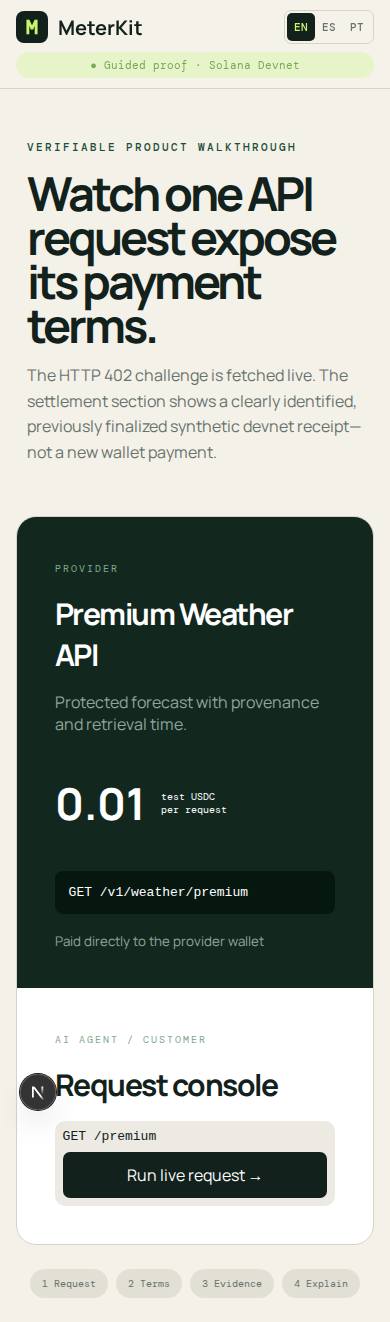
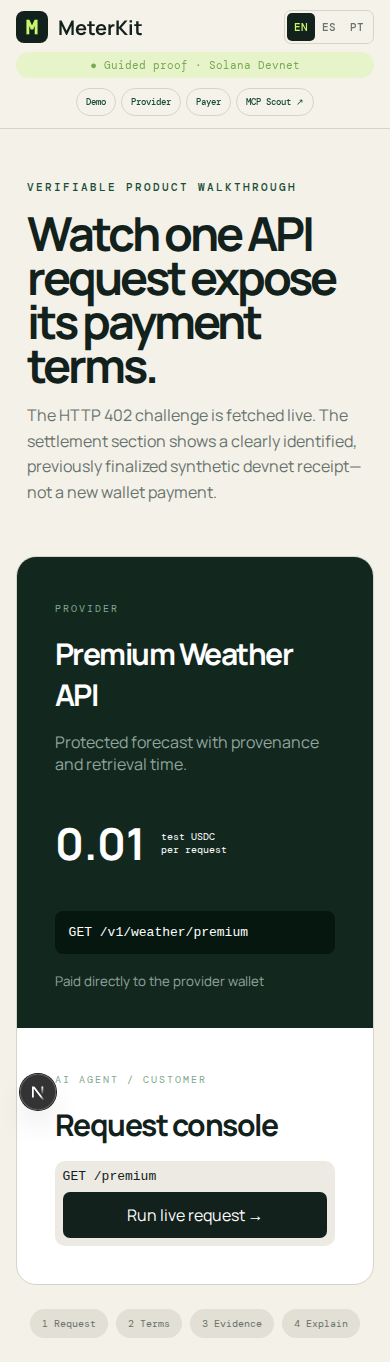
Add security headers and mobile product navigation

diff --git a/apps/web/app/styles.css b/apps/web/app/styles.css
@@ -3,6 +3,7 @@
 *{box-sizing:border-box}html{scroll-behavior:smooth}body{margin:0;background:var(--paper);color:var(--ink);font-family:Manrope,Arial,sans-serif}a{color:inherit;text-decoration:none}button{font:inherit}
 nav{height:78px;border-bottom:1px solid var(--line);display:flex;align-items:center;justify-content:space-between;padding:0 5vw;position:sticky;top:0;background:rgba(244,241,233,.94);backdrop-filter:blur(12px);z-index:5}.brand{font-weight:700;font-size:20px;display:flex;align-items:center;gap:10px}.mark{display:grid;place-items:center;width:32px;height:32px;background:var(--ink);color:var(--lime);border-radius:8px;font-family:DM Mono}.navlinks{display:flex;gap:32px;font-size:14px}.wallet,.new{border:0;background:var(--ink);color:white;border-radius:8px;padding:12px 17px}.dot{display:inline-block;width:7px;height:7px;background:var(--lime);border-radius:50%;margin-right:8px}
 .navActions{display:flex;align-items:center;gap:10px}.localeSwitch{display:flex;border:1px solid var(--line);border-radius:7px;padding:2px}.localeSwitch button{border:0;background:transparent;border-radius:5px;padding:7px;color:var(--muted);font:500 11px DM Mono}.localeSwitch button.active{background:var(--ink);color:var(--lime)}
+.mobileProductNav{display:none}
 .hero{padding:110px 7vw 100px;max-width:1150px}.eyebrow,.kicker{font:500 11px DM Mono;letter-spacing:2px;color:var(--green)}h1{font-size:clamp(54px,8vw,100px);line-height:.94;letter-spacing:-6px;margin:24px 0 30px;max-width:1000px}h1 em{font-style:normal;color:var(--green)}.hero>p{font-size:20px;line-height:1.55;max-width:650px;color:var(--muted)}.actions{display:flex;gap:12px;margin:35px 0}.primary,.secondary{padding:15px 20px;border-radius:8px;font-weight:600}.primary{background:var(--lime)}.secondary{border:1px solid var(--line)}.proof{display:flex;gap:28px;font:12px DM Mono;color:var(--muted)}
 .dashboard{background:#13251e;color:#fff;padding:80px 7vw}.dashboard header,.sectionHead{display:flex;align-items:end;justify-content:space-between}.dashboard .kicker{color:var(--lime)}h2{font-size:36px;letter-spacing:-1.5px;margin:8px 0}.metrics{display:grid;grid-template-columns:repeat(4,1fr);border:1px solid #345046;border-radius:12px;margin:35px 0 22px}.metrics article{padding:24px;border-right:1px solid #345046}.metrics article:last-child{border:0}.metrics span,.metrics small{display:block;color:#9eb0a8;font-size:12px}.metrics strong{display:block;font-size:30px;margin:12px 0}.metrics .up{color:var(--lime)}.metrics .network{font-size:19px}.network i{display:inline-block;width:9px;height:9px;background:var(--lime);border-radius:50%;margin-right:8px}
 .dashboardActions{display:flex;gap:10px;align-items:center}.walletMenu{position:relative}.dashboard .wallet{background:#efffd0;color:var(--ink);border:0}.walletOptions{position:absolute;right:0;top:48px;background:#fff;border-radius:10px;padding:8px;min-width:210px;z-index:4;box-shadow:0 18px 50px #0005}.walletOptions button{display:block;width:100%;border:0;background:transparent;text-align:left;padding:11px;border-radius:6px}.walletOptions button:hover{background:#eef3e9}.new:disabled{opacity:.45}.errorBanner{background:#582f2f;color:#ffdede;padding:12px 16px;border-radius:8px}.productForm{display:grid;grid-template-columns:1fr 1.4fr 2fr .7fr auto auto;gap:8px;background:#203a30;padding:15px;border-radius:10px;margin-top:25px}.productForm input,.productForm button{min-width:0;border:1px solid #49655a;background:#11241c;color:#fff;border-radius:6px;padding:11px}.productForm button{background:var(--lime);color:var(--ink);border:0;font-weight:700}
@@ -19,5 +20,5 @@ button:focus-visible,a:focus-visible,input:focus-visible{outline:3px solid #8bcf
 .demoPage>nav{position:relative}
 .payerPage .workspaceIntro .wallet{margin-top:20px}.payerPage .allowances{margin-top:20px}
 .srStatus{position:absolute;width:1px;height:1px;padding:0;margin:-1px;overflow:hidden;clip:rect(0,0,0,0);white-space:nowrap;border:0}.paymentCard code{display:block;color:var(--muted);font:10px DM Mono;margin:0 0 15px}.paymentTimeline{padding:0;list-style:none}.demoError{background:#fff0ed;border:1px solid #d98a7d;border-radius:12px;padding:18px;margin-top:18px}.demoError p{color:#843d35}.demoError button,.textButton{border:0;background:var(--ink);color:#fff;border-radius:7px;padding:10px 13px}.weatherResult small,.weatherResult .textButton{display:block;margin-top:12px}.weatherResult small{color:var(--muted)}.weatherResult .textButton{background:transparent;color:var(--green);padding:0}.requestLine button:disabled{opacity:.65;cursor:wait}
-@media(max-width:700px){nav.workspaceNav,nav.demoNav{height:auto;min-height:70px;padding:10px 4vw;display:grid;grid-template-columns:1fr auto;gap:8px}.workspaceNav .devnetBadge,.demoNav .devnetBadge{grid-column:1/3;grid-row:2;text-align:center;padding:6px 9px}.workspaceNav .navActions,.demoNav .navActions{gap:7px}.workspaceNav .navActions>a,.demoWorkspaceLink{display:none}.workspaceIntro,.demoIntro{padding-top:45px}.workspaceIntro h1,.demoIntro h1{font-size:clamp(40px,12vw,54px);letter-spacing:-3px;overflow-wrap:anywhere}.demoPrice strong{font-size:44px}.requestLine{align-items:stretch;gap:8px;flex-direction:column}.demoSteps{flex-wrap:wrap}.row{background:#fff;border:1px solid var(--line);border-radius:10px;margin:10px 0;padding:14px}.table{border-top:0}}
+@media(max-width:700px){nav.workspaceNav,nav.demoNav,nav.marketingNav{height:auto;min-height:70px;padding:10px 4vw;display:grid;grid-template-columns:1fr auto;gap:8px}.workspaceNav .devnetBadge,.demoNav .devnetBadge{grid-column:1/3;grid-row:2;text-align:center;padding:6px 9px}.workspaceNav .navActions,.demoNav .navActions{gap:7px}.workspaceNav .navActions>a,.demoWorkspaceLink{display:none}.mobileProductNav{display:flex;grid-column:1/3;grid-row:3;justify-content:center;gap:5px;overflow-x:auto;padding:2px 0}.mobileProductNav a{white-space:nowrap;border:1px solid var(--line);border-radius:20px;padding:7px 9px;font:500 9px DM Mono;color:var(--green)}.marketingNav .mobileProductNav{grid-row:2}.workspaceIntro,.demoIntro{padding-top:45px}.workspaceIntro h1,.demoIntro h1{font-size:clamp(40px,12vw,54px);letter-spacing:-3px;overflow-wrap:anywhere}.demoPrice strong{font-size:44px}.requestLine{align-items:stretch;gap:8px;flex-direction:column}.demoSteps{flex-wrap:wrap}.row{background:#fff;border:1px solid var(--line);border-radius:10px;margin:10px 0;padding:14px}.table{border-top:0}}
 @media(prefers-reduced-motion:reduce){html{scroll-behavior:auto}*,*::before,*::after{animation-duration:.01ms!important;animation-iteration-count:1!important;transition-duration:.01ms!important}}

diff --git a/apps/web/app/dashboard/page.tsx b/apps/web/app/dashboard/page.tsx
@@ -4,6 +4,7 @@ import Link from "next/link";
 import { useEffect, useState } from "react";
 import { DashboardClient } from "../dashboard-client";
 import { isLocale, localeLabels, locales, type Locale } from "../locale";
+import { MobileProductLinks } from "../product-links";
 
 const copy = {
   en: { badge: "Public demo · Solana Devnet", demo: "Live demo", controls: "Payer controls", kicker: "PROVIDER WORKSPACE", title: "Products, payments and receipts.", intro: "Before connecting, this workspace shows public devnet demo data. Connect to manage only the products and payments owned by your wallet. Signing in is free and does not authorize a payment." },
@@ -27,6 +28,7 @@ export default function DashboardPage() {
       <Link className="brand" href="/"><span className="mark" aria-hidden="true">M</span> MeterKit</Link>
       <span className="devnetBadge">● {text.badge}</span>
       <div className="navActions"><Link href="/demo">{text.demo}</Link><Link href="/agent/allowances">{text.controls}</Link><div className="localeSwitch" role="group" aria-label="Language">{locales.map((option) => <button key={option} className={locale === option ? "active" : ""} aria-label={localeLabels[option]} aria-pressed={locale === option} onClick={() => setLocale(option)}>{option === "pt-BR" ? "PT" : option.toUpperCase()}</button>)}</div></div>
+      <MobileProductLinks locale={locale} />
     </nav>
     <div className="workspaceIntro"><span className="kicker">{text.kicker}</span><h1>{text.title}</h1><p>{text.intro}</p></div>
     <DashboardClient locale={locale} />

diff --git a/tests/e2e/dashboard.spec.ts b/tests/e2e/dashboard.spec.ts
@@ -9,7 +9,10 @@ test("landing, guided demo and workspace communicate the non-custodial product",
   page.on("response", (response) => {
     if (response.status() >= 400 && response.status() !== 402) failedResponses.push(`${response.status()} ${response.url()}`);
   });
-  await page.goto("/");
+  const landingResponse = await page.goto("/");
+  expect(landingResponse?.headers()["content-security-policy"]).toContain("frame-ancestors 'none'");
+  expect(landingResponse?.headers()["x-content-type-options"]).toBe("nosniff");
+  expect(landingResponse?.headers()["x-powered-by"]).toBeUndefined();
   await expect(page.getByRole("heading", { name: /Turn an API call/ })).toBeVisible();
   await expect(page.getByText("MeterKit never holds the funds", { exact: false })).toBeVisible();
   await page.screenshot({ path: "artifacts/landing-v2-desktop.png", fullPage: true });
@@ -42,6 +45,8 @@ test("landing, guided demo and workspace communicate the non-custodial product",
   await page.screenshot({ path: "artifacts/demo-v2-mobile.png", fullPage: true });
 
   await page.goto("/");
+  await expect(page.getByRole("navigation", { name: "Product areas" }).getByRole("link", { name: "Payer" })).toBeVisible();
+  await expect(page.getByRole("navigation", { name: "Product areas" }).getByRole("link", { name: /MCP Scout/ })).toBeVisible();
   await page.screenshot({ path: "artifacts/landing-v2-mobile.png", fullPage: true });
   await page.setViewportSize({ width: 1440, height: 1000 });
   await page.goto("/dashboard");

diff --git a/apps/web/next.config.ts b/apps/web/next.config.ts
@@ -1,7 +1,33 @@
 import type { NextConfig } from "next";
 
+const contentSecurityPolicy = [
+  "default-src 'self'",
+  "base-uri 'self'",
+  "frame-ancestors 'none'",
+  "form-action 'self'",
+  "object-src 'none'",
+  "img-src 'self' data:",
+  "font-src 'self' https://fonts.gstatic.com data:",
+  "style-src 'self' 'unsafe-inline' https://fonts.googleapis.com",
+  `script-src 'self' 'unsafe-inline'${process.env.NODE_ENV === "development" ? " 'unsafe-eval'" : ""}`,
+  "connect-src 'self' https://meterkit-api.juanchi.dev https://api.devnet.solana.com http://127.0.0.1:3402 http://localhost:3402",
+].join("; ");
+
 const nextConfig: NextConfig = {
   allowedDevOrigins: ["127.0.0.1"],
+  poweredByHeader: false,
+  async headers() {
+    return [{
+      source: "/(.*)",
+      headers: [
+        { key: "Content-Security-Policy", value: contentSecurityPolicy },
+        { key: "Referrer-Policy", value: "strict-origin-when-cross-origin" },
+        { key: "X-Content-Type-Options", value: "nosniff" },
+        { key: "X-Frame-Options", value: "DENY" },
+        { key: "Permissions-Policy", value: "camera=(), microphone=(), geolocation=(), browsing-topics=()" },
+      ],
+    }];
+  },
 };
 
 export default nextConfig;

diff --git a/apps/web/app/page.tsx b/apps/web/app/page.tsx
@@ -4,6 +4,7 @@ import Link from "next/link";
 import { useEffect, useState } from "react";
 import { PaymentFlowVisual } from "./payment-flow-visual";
 import { isLocale, localeLabels, locales, type Locale } from "./locale";
+import { MobileProductLinks } from "./product-links";
 
 const copy = {
   en: {
@@ -113,7 +114,7 @@ function MarketingNav({ locale, setLocale, text }: {
   setLocale: (locale: Locale) => void;
   text: (typeof copy)[Locale];
 }) {
-  return <nav>
+  return <nav className="marketingNav">
     <Link className="brand" href="/"><span className="mark">M</span> MeterKit</Link>
     <div className="navlinks"><a href="#product">{text.products}</a><Link href="/demo">{text.demo}</Link><a href="#docs">{text.docs}</a></div>
     <div className="navActions">
@@ -122,5 +123,6 @@ function MarketingNav({ locale, setLocale, text }: {
       </div>
       <Link className="wallet navWorkspace" href="/dashboard"><span className="dot" /> {text.dashboard}</Link>
     </div>
+    <MobileProductLinks locale={locale} />
   </nav>;
 }

diff --git a/apps/web/app/agent/allowances/page.tsx b/apps/web/app/agent/allowances/page.tsx
@@ -4,6 +4,7 @@ import Link from "next/link";
 import { useEffect, useState } from "react";
 import { AllowancePanel, type ConnectedWallet, WalletButton } from "../../dashboard-client";
 import { isLocale, localeLabels, locales, type Locale } from "../../locale";
+import { MobileProductLinks } from "../../product-links";
 
 const copy = {
   en: { badge: "Payer control · Solana Devnet", dashboard: "Provider workspace →", kicker: "AGENT / PAYER CONTROL", title: "Your authorization stays yours.", intro: "Connect the payer wallet to revoke a bounded allowance. MeterKit never receives your seed phrase or private key." },
@@ -36,6 +37,7 @@ export default function AgentAllowancesPage() {
             {option === "pt-BR" ? "PT" : option.toUpperCase()}
           </button>)}</div>
       </div>
+      <MobileProductLinks locale={locale} />
     </nav>
     <header className="workspaceIntro">
       <span className="kicker">{text.kicker}</span><h1>{text.title}</h1><p>{text.intro}</p>

diff --git a/apps/web/app/product-links.tsx b/apps/web/app/product-links.tsx
@@ -1,0 +1,19 @@
+import Link from "next/link";
+import type { Locale } from "./locale";
+
+const labels = {
+  en: { demo: "Demo", provider: "Provider", payer: "Payer", scout: "MCP Scout" },
+  es: { demo: "Demo", provider: "Proveedor", payer: "Pagador", scout: "MCP Scout" },
+  "pt-BR": { demo: "Demo", provider: "Provedor", payer: "Pagador", scout: "MCP Scout" },
+} as const;
+
+export function MobileProductLinks({ locale }: { locale: Locale }) {
+  const text = labels[locale];
+  return <div className="mobileProductNav" role="navigation" aria-label="Product areas">
+    <Link href="/demo">{text.demo}</Link>
+    <Link href="/dashboard">{text.provider}</Link>
+    <Link href="/agent/allowances">{text.payer}</Link>
+    <a href="https://github.com/JuanTorchia/meterkit/tree/main/examples/mcp-scout"
+      target="_blank" rel="noreferrer">{text.scout} ↗</a>
+  </div>;
+}

diff --git a/apps/web/app/demo/page.tsx b/apps/web/app/demo/page.tsx
@@ -3,6 +3,7 @@
 import Link from "next/link";
 import { useEffect, useRef, useState } from "react";
 import { isLocale, localeLabels, locales, type Locale } from "../locale";
+import { MobileProductLinks } from "../product-links";
 
 const gateway = process.env.NEXT_PUBLIC_GATEWAY_URL ?? "http://localhost:3402";
 const expectedProduct = "premium-weather";
@@ -141,6 +142,7 @@ export default function DemoPage() {
             {option === "pt-BR" ? "PT" : option.toUpperCase()}
           </button>)}</div>
       </div>
+      <MobileProductLinks locale={locale} />
     </nav>
     <header className="demoIntro"><span className="kicker">{text.kicker}</span><h1>{text.title}</h1><p>{text.intro}</p></header>
     <section className="demoConsole" aria-label="x402 payment walkthrough">
